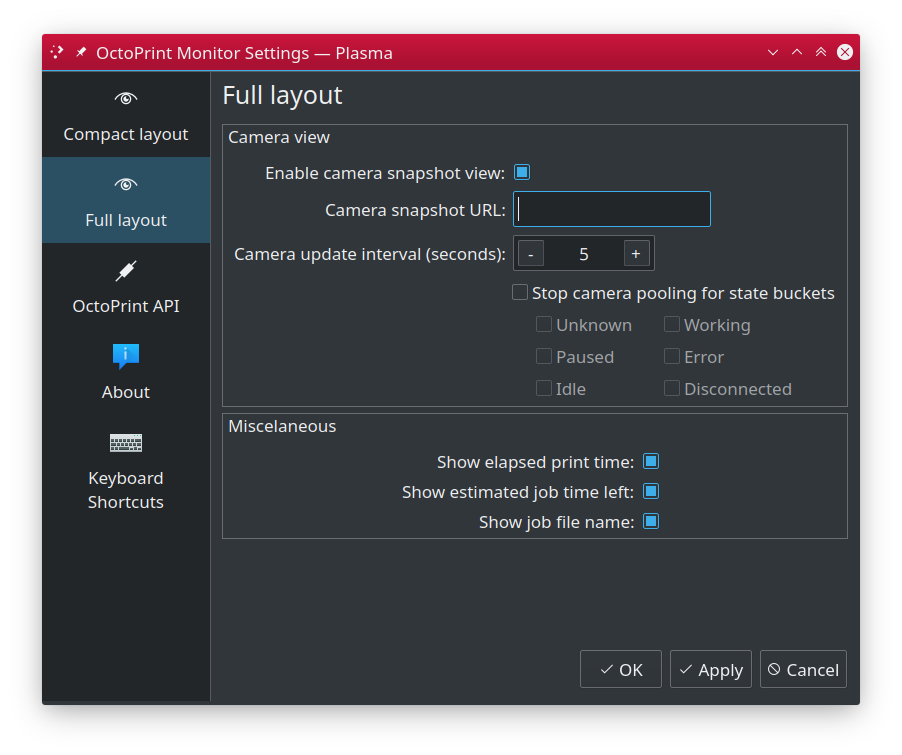
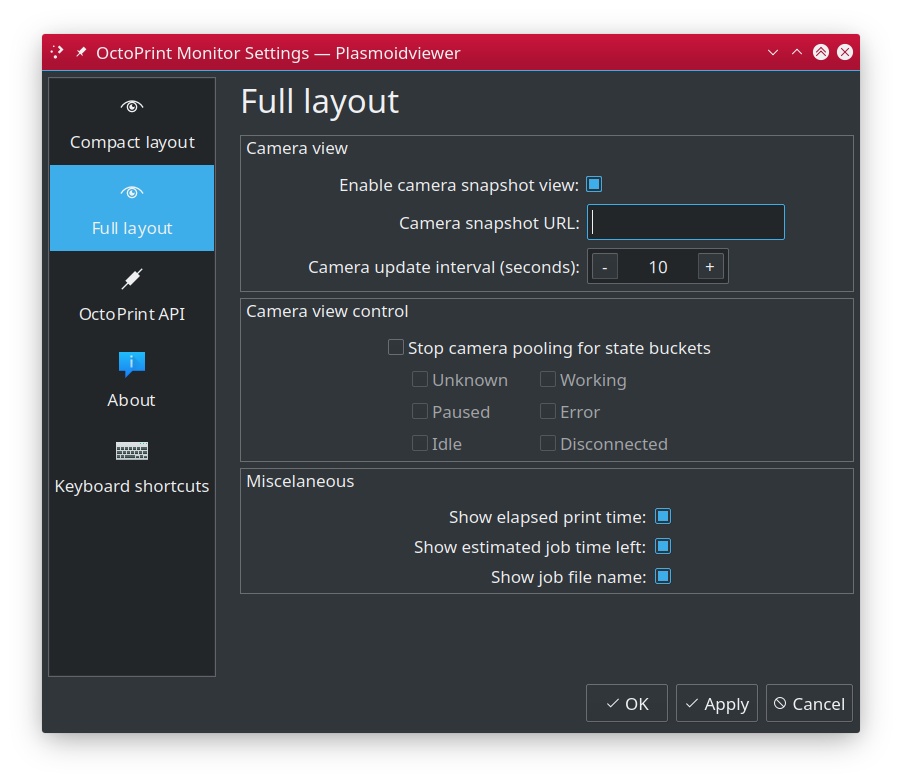
Fixed "Full layout" config pane

Changed region(s): [[0.031, 0.0305, 0.9623, 0.7616], [0.6519, 0.853, 0.9623, 0.9444], [0.2173, 0.9139, 0.2483, 0.9444]]

diff --git a/src/contents/ui/configFullRepresentation.qml b/src/contents/ui/configFullRepresentation.qml
@@ -41,7 +41,7 @@ ColumnLayout {
             anchors.left: parent.left
             anchors.right: parent.right
 
-            CheckBox {
+            PlasmaComponents.CheckBox {
                 id: cameraViewEnabled
                 Kirigami.FormData.label: i18n("Enable camera snapshot view") + ':'
             }
@@ -63,6 +63,16 @@ ColumnLayout {
 
                 Kirigami.FormData.label: i18n("Camera update interval (seconds)") + ':'
             }
+        }
+    }
+
+    GroupBox {
+        title: i18n("Camera view control")
+        Layout.fillWidth: true
+
+        Kirigami.FormLayout {
+            anchors.left: parent.left
+            anchors.right: parent.right
 
             PlasmaComponents.CheckBox {
                 id: stopCameraPollForBuckets

diff --git a/README.md b/README.md
@@ -223,6 +223,7 @@ Full layout is being used when `OctoPrint Monitor` is used as regular desktop wi
    - **Camera update intervals** - specify how frequently you want webcam snapshot view
    to be updated. You may want to increase the interval, to reduce network traffic and
    drop the load off OctoPrint.
+ - **Camera view control**
    - **Stop camera polling for state buckets** - if enabled, camera snapshot polling
    will stop if printer enters selected states. You may want to i.e. enable this
    option for i.e. "Idle" and "Disconnected" states as most likely there will be nothing

diff --git a/CHANGES.md b/CHANGES.md
@@ -8,7 +8,7 @@
    * Added `Configuration` state indicating lack of widget required configuration.
    * Improved API response handling.
    * Scaled state icons down to reduce plasmoid size
+   * Corected layout of "Full layout" config panel
 
 * v1.0.0 (2020-12-01)
    * Initial public release
-
